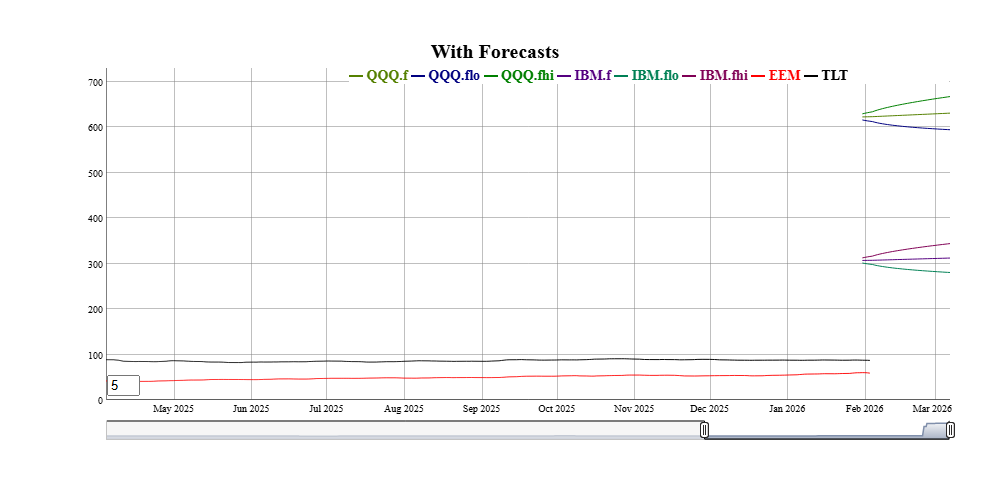
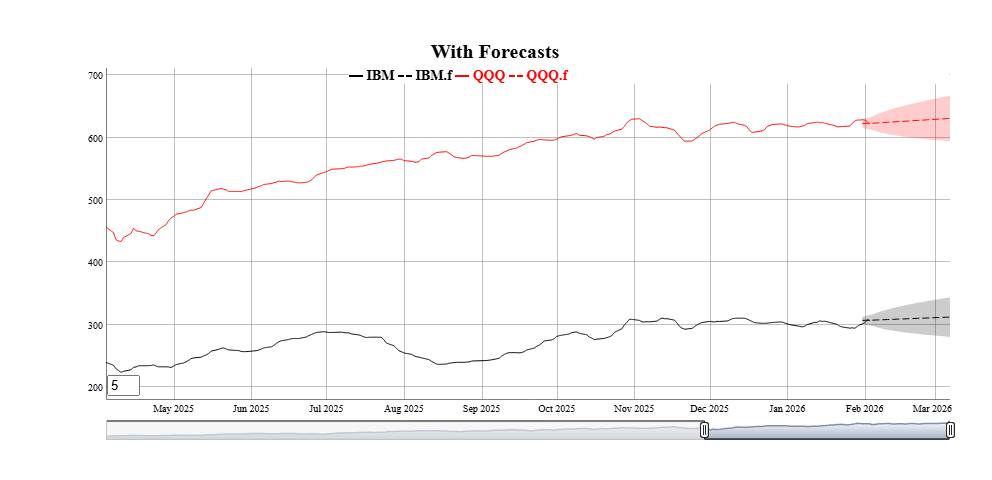
README fix

diff --git a/README.md b/README.md
@@ -56,6 +56,10 @@ require(FinanceGraphs)
 #>   method            from
 #>   as.zoo.data.frame zoo
 fgts_dygraph(eqtypx, title="Stock Prices", ylab="Adjusted Close")
+#> Assigning:    indtnew(2031;5) data.table;data.frame from --notrace-->
+#> Assigning:  alltitles() character from --notrace-->
+#> Assigning: series_dets(4;8) data.table;data.frame from --notrace-->
+#> Assigning: dt_colnames() list from --notrace-->
 ```
 
 <img src="man/figures/README-simple_example1-1.png" alt="Simple Graph of a few Equity Prices" width="100%" />
@@ -86,6 +90,10 @@ or a relative date string (e.g. “-6m” for 6 months ago.
 
 ``` r
 fgts_dygraph(eqtypx, dtstartfrac=0.8,hilightcols="IBM",hilightwidth=4,roller=3)
+#> Assigning:    indtnew(2031;5) data.table;data.frame from --notrace-->
+#> Assigning:  alltitles() character from --notrace-->
+#> Assigning: series_dets(4;8) data.table;data.frame from --notrace-->
+#> Assigning: dt_colnames() list from --notrace-->
 ```
 
 <img src="man/figures/README-simple_example2-1.png" alt="Graph of Equity Prices showing highlights and date selection methods" width="100%" />
@@ -106,6 +114,10 @@ toplot <- reerdta[REGION=="LATAM",.(cop=sum(value*(variable=="COL")),
 fgts_dygraph(toplot,title="COP REER vs Latam peers",ylab="Price",
              roller=3,hilightcols="cop",
              hilightwidth=4,annotations="last,linevalue")
+#> Assigning:    indtnew(252;5) data.table;data.frame from --notrace-->
+#> Assigning:  alltitles() character from --notrace-->
+#> Assigning: series_dets(4;8) data.table;data.frame from --notrace-->
+#> Assigning: dt_colnames() list from --notrace-->
 ```
 
 <img src="man/figures/README-simple_example3-1.png" alt="Hi/Lo series, used to show currency values against local peers" width="100%" />
@@ -132,6 +144,10 @@ be added together with semicolons, as in the following example:
 ``` r
 smalldta <- eqtypx[date>=as.Date("2023-01-01"),.(date,TLT,EEM)]
 fgts_dygraph(smalldta,title="With Events",ylab="Price",events="doi,regm;doi,fedmoves;date,xmas,2025-12-25")
+#> Assigning:    indtnew(772;3) data.table;data.frame from --notrace-->
+#> Assigning:  alltitles() character from --notrace-->
+#> Assigning: series_dets(2;8) data.table;data.frame from --notrace-->
+#> Assigning: dt_colnames() list from --notrace-->
 ```
 
 <img src="man/figures/README-Events1-1.png" alt="Graph of Equity Prices showing Event styles" width="100%" />
@@ -161,7 +177,12 @@ head(events_consumer_sent,2)
 #>    <int>    <char>       <Date>     <Date>  <int>
 #> 1:     3 #9595FFFF   2016-03-02 2016-01-01      3
 #> 2:     2 #CACAFFFF   2016-04-02 2016-03-02      1
+
 fgts_dygraph(smalldta,title="Equity Prices w Sentiment",event_ds=events_consumer_sent)
+#> Assigning:    indtnew(772;3) data.table;data.frame from --notrace-->
+#> Assigning:  alltitles() character from --notrace-->
+#> Assigning: series_dets(2;8) data.table;data.frame from --notrace-->
+#> Assigning: dt_colnames() list from --notrace-->
 ```
 
 <img src="man/figures/README-Events2-1.png" alt="Graph of equity prices showing sentiment ranges" width="100%" />
@@ -184,16 +205,31 @@ forecast is shown as the same color as the original series, but dashed
 to show the transition.
 
 ``` r
+smalldta <- eqtypx[date>=as.Date("2023-01-01"),.(date,IBM,QQQ)]
 head(example_fcst_set,2)
 #> Key: <date>
 #>          date    QQQ.f  QQQ.flo  QQQ.fhi    IBM.f  IBM.flo  IBM.fhi
 #>        <Date>     <ts>    <num>    <num>     <ts>    <num>    <num>
 #> 1: 2026-01-31 622.6611 615.9843 629.3379 306.9482 301.3265 312.5699
 #> 2: 2026-02-01 622.9118 613.7795 632.0441 307.1080 299.3237 314.8924
+
 fgts_dygraph(smalldta,title="With Forecasts", dtstartfrac=0.7,forecast_ds=example_fcst_set)
+#> Assigning:    indtnew(808;9) data.table;data.frame from --notrace-->
+#> Assigning:  alltitles() character from --notrace-->
+#> Assigning: series_dets(8;8) data.table;data.frame from --notrace-->
+#> Assigning: dt_colnames() list from --notrace-->
 ```
 
 <img src="man/figures/README-Forecasts1-1.png" alt="Adding forecasts to original data" width="100%" />
+
+Like events, forecasts can be generated from many packages with
+different output formats. There are also “forecast helpers” to get their
+outputs into the appropriate `foreast_ds` forms
+
+| Function | Description |
+|:---|:---|
+| `fg_sweep()` | Converts [tidy forecast objects](https://business-science.github.io/sweep/) to `forecast_ds` form. |
+| `fg_forecast()` | Converts [tidy forecast objects](https://pkg.robjhyndman.com/forecast/) to `forecast_ds` form. |
 
 ## Changing colors and adding dates of interest
 
